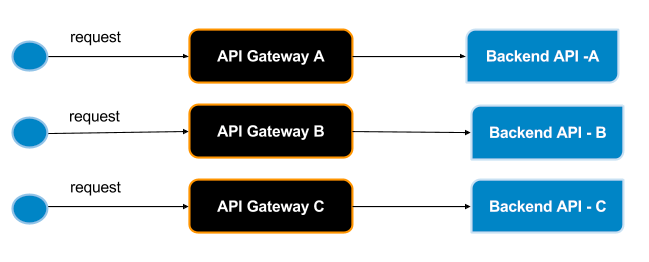
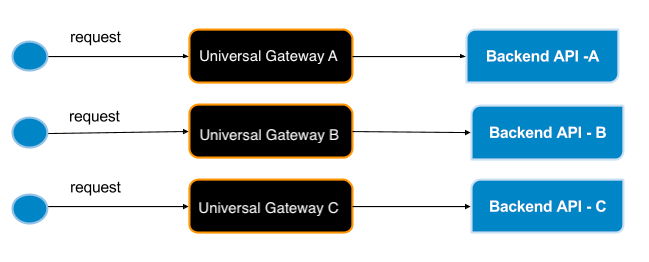
Change the API Gateway section docs to Universal Gateway

Changed region(s): [[0.3082, 0.458, 0.5239, 0.5496], [0.3082, 0.7634, 0.5239, 0.8244], [0.3082, 0.1832, 0.5239, 0.2443]]

diff --git a/en/docs/deploy-and-publish/deploy-on-gateway/api-gateway/maintaining-separate-production-and-sandbox-gateways.md b/en/docs/deploy-and-publish/deploy-on-gateway/api-gateway/maintaining-separate-production-and-sandbox-gateways.md
@@ -2,23 +2,23 @@
 
 With WSO2 API Manager, you can maintain a production and a sandbox endpoint for a given API. The production endpoint is the actual location of the API, whereas the sandbox endpoint points to its testing/pre-production environment.
 
-When you publish an API using the API Publisher, it gets deployed on the API Gateway. By default, there's a single Gateway instance (deployed either externally or embedded within the publisher), but you can also set up multiple Gateways:
+When you publish an API using the API Publisher, it gets deployed on the Universal Gateway. By default, there's a single Gateway instance (deployed either externally or embedded within the publisher), but you can also set up multiple Gateways:
 
 #### Single Gateway to handle both production and sandbox requests
 
-This is the default scenario. Because this Gateway instance handles both production and sandbox token traffic, it is called a hybrid API Gateway. When an API request comes to the API Gateway, it checks whether the requesting token is of type PRODUCTION or SANDBOX and forwards the request to the appropriate endpoint. The diagram below depicts this scenario.
+This is the default scenario. Because this Gateway instance handles both production and sandbox token traffic, it is called a hybrid Gateway. When an API request comes to the Universal Gateway, it checks whether the requesting token is of type PRODUCTION or SANDBOX and forwards the request to the appropriate endpoint. The diagram below depicts this scenario.
 
 [![Hybrid Gateway]({{base_path}}/assets/img/learn/hybrid-gw.png)]({{base_path}}/assets/img/learn/hybrid-gw.png)
 
 #### Multiple Gateways to handle production and sandbox requests separately
 
-Having a single Gateway instance to pass through both types of requests can negatively impact the performance of the production server. To avoid this, you can set up separate API Gateways. The production API Gateway handles requests that are made using PRODUCTION type tokens and the sandbox API Gateway handles requests that are made using SANDBOX type tokens.
+Having a single Gateway instance to pass through both types of requests can negatively impact the performance of the production server. To avoid this, you can set up separate Universal Gateways. The production Universal Gateway handles requests that are made using PRODUCTION type tokens and the sandbox Universal Gateway handles requests that are made using SANDBOX type tokens.
 
 The diagram below depicts this using two Gateways:
 
 [![Production and sandbox gateways]({{base_path}}/assets/img/learn/production-sandbox-gws.png)]({{base_path}}/assets/img/learn/production-sandbox-gws.png)
 
-In either of the two approaches, if an API Gateway receives an invalid token, it returns an error to the requesting client saying that the token is invalid.
+In either of the two approaches, if a Universal Gateway receives an invalid token, it returns an error to the requesting client saying that the token is invalid.
 
 You configure production and sandbox Gateways in the `<API-M_HOME>/repository/conf/deployment.toml` file in API Publisher nodes, as shown in the following example:
 
@@ -64,7 +64,7 @@ If you work with Gateways in different geographical locations, configuring mult
 
 [![Multi-region Gateway]({{base_path}}/assets/img/learn/multi-reigion-gw.png)]({{base_path}}/assets/img/learn/multi-reigion-gw.png)
 
-**Figure** : API Gateways in different geographical regions
+**Figure** : Universal Gateways in different geographical regions
 
 !!! info
     Note that in addition to the configuration mentioned above, all the other required configuration for Publisher and other Components should be done. If you are using a multi-tenanted setup, would need to share the registry database mount with the Gateway Sandbox and Production nodes.

diff --git a/en/docs/deploy-and-publish/deploy-on-gateway/api-gateway/overview-of-the-api-gateway.md b/en/docs/deploy-and-publish/deploy-on-gateway/api-gateway/overview-of-the-api-gateway.md
@@ -1,15 +1,15 @@
-# Overview of the API Gateway
+# Overview of the Universal Gateway
 
 [![API-M overview]({{base_path}}/assets/img/learn/apim-overview.png){: style="width:60%"}]({{base_path}}/assets/img/learn/apim-overview.png)
 
-**WSO2 API Gateway** provides a runtime and a backend component (an API proxy) for API calls. It secures, protects, manages, and scales API calls by intercepting API requests and applying policies, such as throttling and security, using handlers and managing API statistics.
+**WSO2 Universal Gateway** provides a runtime and a backend component (an API proxy) for API calls. It secures, protects, manages, and scales API calls by intercepting API requests and applying policies, such as throttling and security, using handlers and managing API statistics.
 
 Upon validation of a policy, the Gateway passes Web service calls to the actual backend. If the service call is a token request, the Gateway passes it directly to the Key Manager.
 
 After the API Manager server has started, you can access the Gateway using the Management Console [https://localhost:9443/carbon](https://localhost:9443/carbon). If you need to integrate a monitoring and analytics component to WSO2 API Manager, you can do so by configuring WSO2 API Manager Analytics. This component provides reports, statistics, and graphs on the APIs deployed in WSO2 API Manager. You can then configure alerts to monitor these APIs and detect unusual activity, manage locations via Geolocation statistics and carry out a detailed analysis of the logs.
 
 !!! Info    
-    Although the API Gateway contains integration features, it is recommended not to use it for integration-specific tasks. Use it only for Gateway functionality related to API invocations. For example, if you want to call external services (e.g., SAP), use a separate Micro Integrator cluster for this purpose.
+    Although the Universal Gateway contains integration features, it is recommended not to use it for integration-specific tasks. Use it only for Gateway functionality related to API invocations. For example, if you want to call external services (e.g., SAP), use a separate Micro Integrator cluster for this purpose.
 
 **Gateway Architecture**
 
@@ -17,7 +17,7 @@ After the API Manager server has started, you can access the Gateway using the M
 
 Messages that reach the Gateway are processed as follows:
 
-1. When a request hits the API Gateway, it is received by the `HTTP/HTTPS transports`. 
+1. When a request hits the Universal Gateway, it is received by the `HTTP/HTTPS transports`. 
    
      The transport is responsible for carrying messages that are in a specific format. The transport provides a receiver, which is used to receive messages, and a sender, which is used to send messages.
 

diff --git a/en/docs/deploy-and-publish/deploy-on-gateway/api-gateway/passing-enduser-attributes-to-the-backend-via-api-gateway.md b/en/docs/deploy-and-publish/deploy-on-gateway/api-gateway/passing-enduser-attributes-to-the-backend-via-api-gateway.md
@@ -60,7 +60,7 @@ In order to validate the backend JWT using JWKS, you will need to invoke the JWK
 
 ## Expiry time of the JWT
 
-The JWT expiry time depends directly on whether caching is enabled in the Gateway Manager or Key Manager. The WSO2 API-M Gateway caching is enabled by default. However, if required, you can enable or disable the caching for the Gateway Manager or the Key Manager using the `apim.cache.gateway_token.enable` or `apim.cache.km_token.enable` elements respectively in the `<API-M_HOME>/repository/conf/deployment.toml` file. If caching is enabled for the Gateway Manager or the Key Manager, the JWT expiry time will be the same as the default cache expiry time.
+The JWT expiry time depends directly on whether caching is enabled in the Gateway Manager or Key Manager. The WSO2 Universal Gateway caching is enabled by default. However, if required, you can enable or disable the caching for the Gateway Manager or the Key Manager using the `apim.cache.gateway_token.enable` or `apim.cache.km_token.enable` elements respectively in the `<API-M_HOME>/repository/conf/deployment.toml` file. If caching is enabled for the Gateway Manager or the Key Manager, the JWT expiry time will be the same as the default cache expiry time.
 
 The claims that are retrieved for the JWT access token generation are cached. You can set the expiry time of these JWT claims by setting the `apim.cache.jwt_claim.expiry_time` in the `<API-M_HOME>/repository/conf/deployment.toml` file:
 
@@ -72,7 +72,7 @@ expiry_time = "900"
 
 ## Enabling the default backend JWT generator
 
-Before passing end user attributes, you need to enable and configure the JWT implementation, as mentioned below in the default API Gateway.
+Before passing end user attributes, you need to enable and configure the JWT implementation, as mentioned below in the default Universal Gateway.
 
 1. Navigate to the `<API-M_HOME>/repository/conf/deployment.toml` file.
 
@@ -355,7 +355,7 @@ apim.jwt.binding_federated_user_claims</code></pre></td>
 </table>
 
 !!! tip
-    You can use TCPMon or API Gateway debug logs to capture the JWT access token header with end user details. Follow the instructions below to enable the Gateway DEBUG logs for wire messages:
+    You can use TCPMon or Universal Gateway debug logs to capture the JWT access token header with end user details. Follow the instructions below to enable the Gateway DEBUG logs for wire messages:
 
     1.  Go to the `<APIM_GATEWAY>/repository/conf` directory and open the `log4j2.properties` file with a text editor.
     2.  Add these two loggers to the list of loggers:<br/>

diff --git a/en/docs/deploy-and-publish/deploy-on-gateway/api-gateway/api-gateways-with-dedicated-backends.md b/en/docs/deploy-and-publish/deploy-on-gateway/api-gateway/api-gateways-with-dedicated-backends.md
@@ -1,6 +1,6 @@
-# API Gateways with Dedicated Backends
+# Gateways with Dedicated Backends
 
-We can extend the [multiple gateway environments]({{base_path}}/deploy-and-publish/api-gateway/maintaining-separate-production-and-sandbox-gateways) feature by utilizing parameterized endpoint capabilities of WSO2 API Manager to have each gateway point to a different back-end endpoint. API Gateway is the actual runtime of the APIs that are developed and published from the API Publisher. WSO2 API Manager is capable of publishing APIs to different Gateways where API users connect to those API Gateways in order to do the actual API calls through the applications to which they are subscribed.
+We can extend the [multiple gateway environments]({{base_path}}/deploy-and-publish/api-gateway/maintaining-separate-production-and-sandbox-gateways) feature by utilizing parameterized endpoint capabilities of WSO2 API Manager to have each gateway point to a different back-end endpoint. Universal Gateway is the actual runtime of the APIs that are developed and published from the API Publisher. WSO2 API Manager is capable of publishing APIs to different Gateways where API users connect to those Universal Gateways in order to do the actual API calls through the applications to which they are subscribed.
 
 However, the API Publisher can only provide a single static endpoint for an API in the implementation. Therefore, the API call is directed to a single endpoint in whichever Gateway the API is deployed in, as depicted in the diagram below.
 
@@ -84,7 +84,7 @@ Follow the steps below to configure a parameterized endpoint as the API endpoint
     ```
 
     !!! note
-        If you have used the class mediator to configure API Gateways in step 4, use the command given below instead of the one above.
+        If you have used the class mediator to configure Universal Gateways in step 4, use the command given below instead of the one above.
         ```java
         ./api-manager.sh -Denvironment.host=<ip_of_backend_environment> -Denvironment.port=<port_of_backend_environment>
         ```

diff --git a/en/docs/deploy-and-publish/deploy-on-gateway/api-gateway/mutual-ssl-between-api-gateway-and-backend.md b/en/docs/deploy-and-publish/deploy-on-gateway/api-gateway/mutual-ssl-between-api-gateway-and-backend.md
@@ -1,8 +1,8 @@
-# Mutual SSL Between API Gateway and Backend
+# Mutual SSL Between Universal Gateway and Backend
 
 In contrast to the usual one-way SSL authentication where a client verifies the identity of the server, in mutual SSL the server validates the identity of the client so that both parties trust each other. This builds a system that has very tight security and avoids any requests made to the client to provide the username/password, as long as the server is aware of the certificates that belong to the client.
 
-This section explains how to secure your backend by enabling mutual SSL between the API Gateway and your backend. To establish a  secure connection with the backend service, API Manager needs to have the public key of the backend service in the truststore. Similarly, the backend service should have the public key of API Manager in the truststore.
+This section explains how to secure your backend by enabling mutual SSL between the Universal Gateway and your backend. To establish a  secure connection with the backend service, API Manager needs to have the public key of the backend service in the truststore. Similarly, the backend service should have the public key of API Manager in the truststore.
 
 ## Export the certificates
 
@@ -106,7 +106,7 @@ Now both the backend service and API Manager are configured to use default key s
     ```
 
 
-## Test Mutual SSL between API Gateway and backend
+## Test Mutual SSL between Universal Gateway and backend
 
 You can do the following to test your mutual SSL configurations
 

diff --git a/en/docs/deploy-and-publish/deploy-on-gateway/api-gateway/custom-synapse-artifacts.md b/en/docs/deploy-and-publish/deploy-on-gateway/api-gateway/custom-synapse-artifacts.md
@@ -1,6 +1,6 @@
 # Storing Custom Synapse Artifacts
 
-WSO2 API Manager contains two types of artifacts; these are runtime artifacts and design-time artifacts. The API Synapse artifacts that act as the API definitions for the Gateway nodes fall into the runtime artifacts category. Without Synapse artifacts, the API Gateway will not be able to serve the specific API requests during the runtime.
+WSO2 API Manager contains two types of artifacts; these are runtime artifacts and design-time artifacts. The API Synapse artifacts that act as the API definitions for the Gateway nodes fall into the runtime artifacts category. Without Synapse artifacts, the Universal Gateway will not be able to serve the specific API requests during the runtime.
 
 To keep custom runtime artifacts deployed in the file system of the Gateway, add the following configuration in the `<API-M_HOME>/repository/conf/deployment.toml` file of the Gateway nodes.
 

diff --git a/en/docs/deploy-and-publish/deploy-on-gateway/api-gateway/response-caching.md b/en/docs/deploy-and-publish/deploy-on-gateway/api-gateway/response-caching.md
@@ -65,9 +65,9 @@ Please follow below steps to enable response caching for an API.
     </table>
 
 !!! note
-    When running a distributed deployment, you need to enable the JSON stream builders on the API Gateway and maintain the standard builders on the API Developer Portal node.
+    When running a distributed deployment, you need to enable the JSON stream builders on the Universal Gateway and maintain the standard builders on the API Developer Portal node.
 
-Follow the instructions below to enable the stream builders in the API gateway:
+Follow the instructions below to enable the stream builders in the Universal gateway:
 
 1.  Open the `<API-M_HOME>/repository/conf/deployment.toml` file.
 2.  Add following configuration.

diff --git a/en/docs/deploy-and-publish/deploy-on-gateway/api-gateway/threat-protectors/regular-expression-threat-protection-for-api-gateway.md b/en/docs/deploy-and-publish/deploy-on-gateway/api-gateway/threat-protectors/regular-expression-threat-protection-for-api-gateway.md
@@ -1,4 +1,4 @@
-# Regular Expression Threat Protection for API Gateway
+# Regular Expression Threat Protection for Universal Gateway
 
 WSO2 API Manager provides predefined regex patterns to sanitize the request from SQL injection attacks. The attacks 
 may depend on the API traffic at runtime. The API developers should identify the common attacks and select the 

diff --git a/en/docs/deploy-and-publish/deploy-on-gateway/api-gateway/threat-protectors/xml-threat-protection-for-api-gateway.md b/en/docs/deploy-and-publish/deploy-on-gateway/api-gateway/threat-protectors/xml-threat-protection-for-api-gateway.md
@@ -1,4 +1,4 @@
-# XML Threat Protection for API Gateway
+# XML Threat Protection for Universal Gateway
 
 The XML threat protector in WSO2 API Manager validates the XML payload vulnerabilities based on the pre-configured 
 limits. It uses following methodologies to thwart the gateway from XML based attacks.

diff --git a/en/docs/deploy-and-publish/deploy-on-gateway/api-gateway/threat-protectors/json-threat-protection-for-api-gateway.md b/en/docs/deploy-and-publish/deploy-on-gateway/api-gateway/threat-protectors/json-threat-protection-for-api-gateway.md
@@ -1,4 +1,4 @@
-# JSON Threat Protection for API Gateway
+# JSON Threat Protection for Universal Gateway
 
 The JSON threat protector in WSO2 API Manager validates the request body of the JSON message based on pre-configured to 
 thwart payload attacks.
